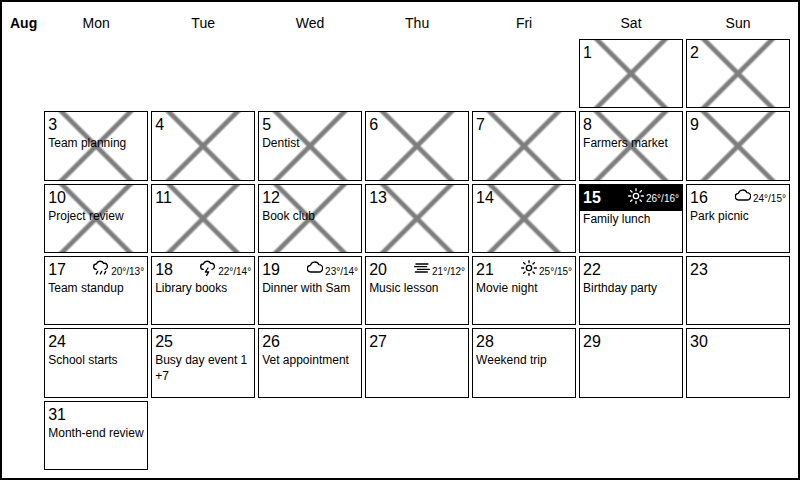
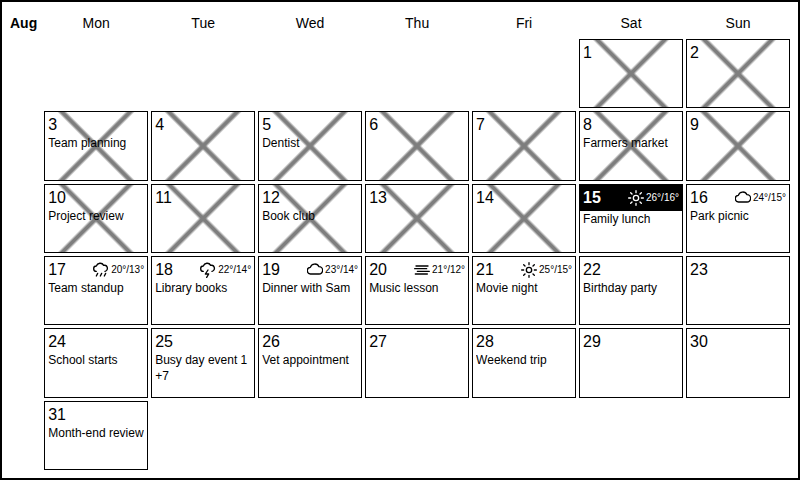
Prevent weather and date overlap in narrow calendar cells

diff --git a/idl-calendar.js b/idl-calendar.js
@@ -139,7 +139,7 @@ export class IdlCalendar extends HTMLElement {
         .month-name { font-size: 14px; font-weight: bold; line-height: 26px; padding-right: 4px; }
         .row-start { grid-column-start: 2; }
         .day { position: relative; min-width: 0; min-height: 0; padding: 3px; border: 1px solid #000;
-          display: flex; flex-direction: column; overflow: hidden; }
+          display: flex; flex-direction: column; overflow: hidden; container-type: inline-size; }
         .day.past::after { content: ""; position: absolute; inset: 0; pointer-events: none;
           opacity: 0.5;
           background: linear-gradient(135deg, transparent 47%, #000 49%, #000 51%, transparent 53%),
@@ -148,7 +148,16 @@ export class IdlCalendar extends HTMLElement {
         .weather { position: absolute; top: 3px; right: 3px; display: flex;
           align-items: center; gap: 2px; font-size: 10px; line-height: 20px; }
         .weather svg { width: 16px; height: 16px; }
+        .weather > span:first-child { display: flex; }
         .day[aria-current="date"] .weather { color: #fff; }
+        @container (max-width: 80px) {
+          .weather { flex-direction: column; align-items: flex-end; gap: 0;
+            font-size: 9px; line-height: 12px; }
+          .weather > span:first-child { height: 24px; }
+          .weather svg { width: 12px; height: 12px; }
+          .weather > span:last-child { color: #000; }
+          .events:has(+ .weather) { margin-top: 16px; }
+        }
         .events { list-style: none; margin: 0; padding: 0; flex: 1; min-height: 0;
           font-size: 12px; line-height: 16px; overflow: hidden; }
         .day-event, .count { display: block; height: 16px;

diff --git a/README.md b/README.md
@@ -120,8 +120,10 @@ Home Assistant user's permissions.
 The upper-right corner of each forecast day shows a small monochrome weather
 icon and **high°/low°** temperatures. Icons distinguish sun, clouds, rain, snow,
 fog, and thunderstorms; accessible labels include the condition, high, low, and
-temperature unit. Today's forecast is white on its black date bar. Weather
-does not take event rows or change event overflow.
+temperature unit. On wide displays, weather shares the date header and today's
+forecast is white on its black date bar. Narrow cells stack temperatures below
+the icon, in black below the date bar, and reserve space above events to avoid
+overlapping the day number. Event overflow adapts to the remaining space.
 
 Forecasts come from [Open-Meteo](https://open-meteo.com/) using its
 [forecast API](https://open-meteo.com/en/docs), with no API key or additional Home
